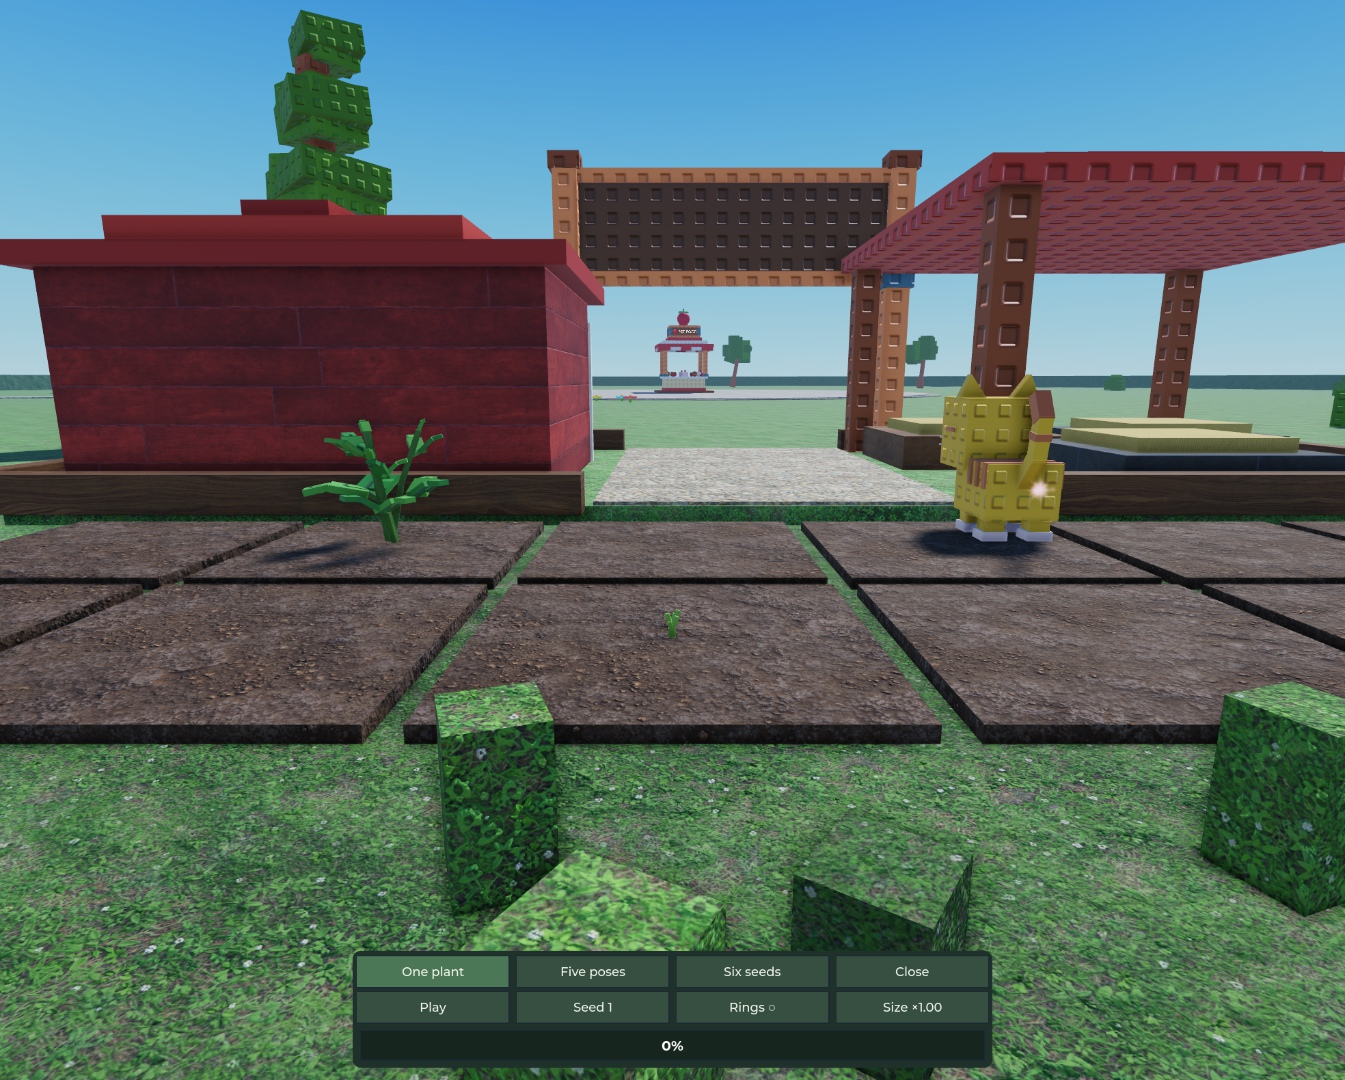
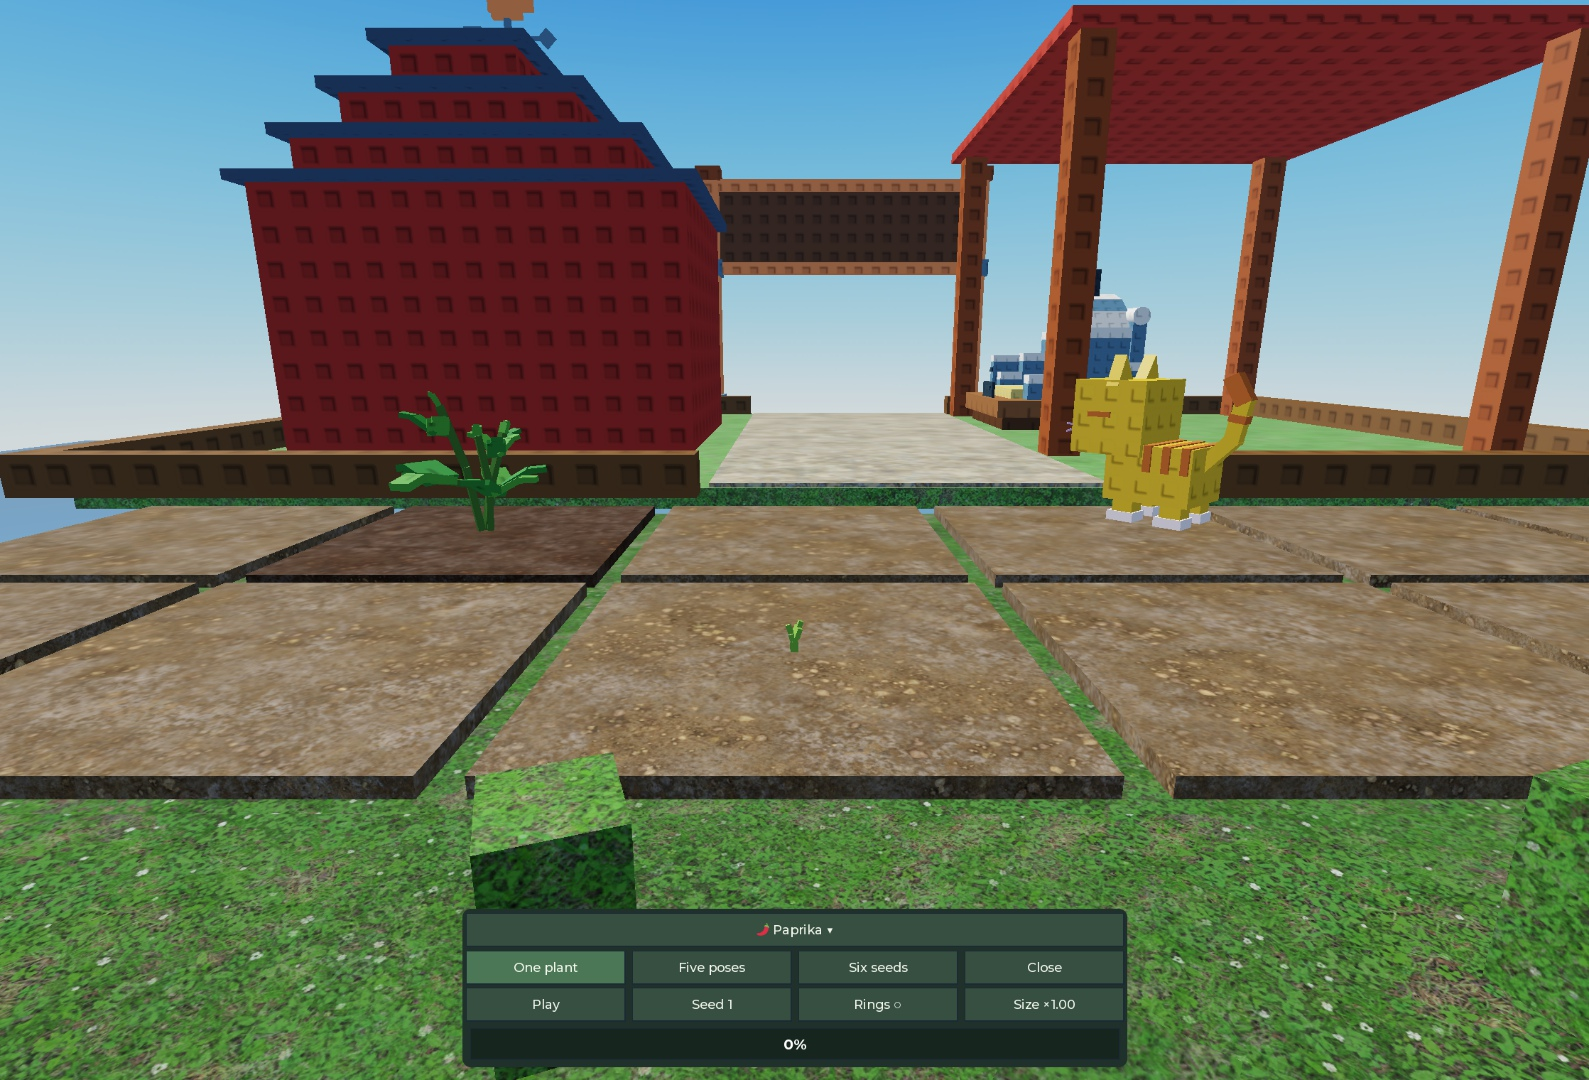
CG: fresh five growth stills of Tomato, Pepper and Pumpkin for review
Taken in the plant reviewer (One plant, seed 1, x1.00) on the current build; the old Pumpkin strip and detail shot were
from before the PlantKit refactor and the new HUD.

diff --git a/docs/plants/TOMATO.md b/docs/plants/TOMATO.md
@@ -35,4 +35,5 @@ fitting preserves square clearance. Ring fixed at 6.8 studs, above the stake.
 28 leaf pieces (seven leaves of blade, tip, two leaflets), 33 pieces in three trusses (a rachis plus two fruit of pedicel, sepal,
 shoulder, body, base); 36-square field 2 556. Mid detail: the stake, one to three leaf plates and, when ripe, three fruit (2 / 3 / 7
 Parts); low detail hides crop art. Seeds 1-7 at masses 0.5 / 1 / 3: radius at most 2.39, leaf / fruit tops 5.1-6.07 studs, fruit bottoms
-at most 0.21 below soil (mass 3, compact seed). Open: real phone, second client, full-field performance.
+at most 0.21 below soil (mass 3, compact seed). Five stills (2026-11-28, seed 1, ×1.00): [0%](../art/tomato/growth-0.jpg) · [20%](../art/tomato/growth-20.jpg) · [50%](../art/tomato/growth-50.jpg) · [75%](../art/tomato/growth-75.jpg) · [100%](../art/tomato/growth-100.jpg).
+Open: Ales's review of the stills, real phone, second client, full-field performance.

diff --git a/docs/plants/PUMPKIN.md b/docs/plants/PUMPKIN.md
@@ -47,5 +47,5 @@ fruit faces the player's side of the arch); ring fixed 4.9, review framing 4.2. 
   Parts**. Nothing at low detail. No harvest effect (`PlayHarvest` nil).
 
 Top 4.47 studs max. Checks: `pumpkin_integration_checks.luau` and the growth checks (six seeds × masses 0.357 / 1 / 3.03 × 101 ages).
-[Five stills](../art/pumpkin/growth-review.jpg) · [ripe and 75% detail](../art/pumpkin/growth-ripe-detail.jpg) await Ales's review.
+Five stills (2026-11-28, seed 1, ×1.00): [0%](../art/pumpkin/growth-0.jpg) · [20%](../art/pumpkin/growth-20.jpg) · [50%](../art/pumpkin/growth-50.jpg) · [75%](../art/pumpkin/growth-75.jpg) · [100%](../art/pumpkin/growth-100.jpg), await Ales's review.
 Open: performance (full field, 24-plot route), real phone, second client.

diff --git a/docs/plants/PEPPER.md b/docs/plants/PEPPER.md
@@ -43,4 +43,5 @@ fruit/blossom groups); 36-square field 3 024. Mid proxies **5 / 31 / 31 Parts** 
 intercept selection rays. Each `fruitSlots[1..3]`: stable id, mature world-space attachment CFrame, 14 Parts (two stalk pieces,
 centre/calyx, five petals/sepals, five body sections, one pointed wedge); `PlantRole` / `FruitSlot` attributes. Visual slots do not
 define reward quantity or perennial collection. Max radius 2.04 over seeds / masses (0.3566 / 1 / 3.0298), ripe height 2.91-4.73, fruit
-clearance at least 0.34. Open: revised art review (stills), performance, real phone, second client.
+clearance at least 0.34. The stills above were re-taken on 2026-11-28 (seed 1, ×1.00). Open: Ales's review of the stills, performance,
+real phone, second client.
